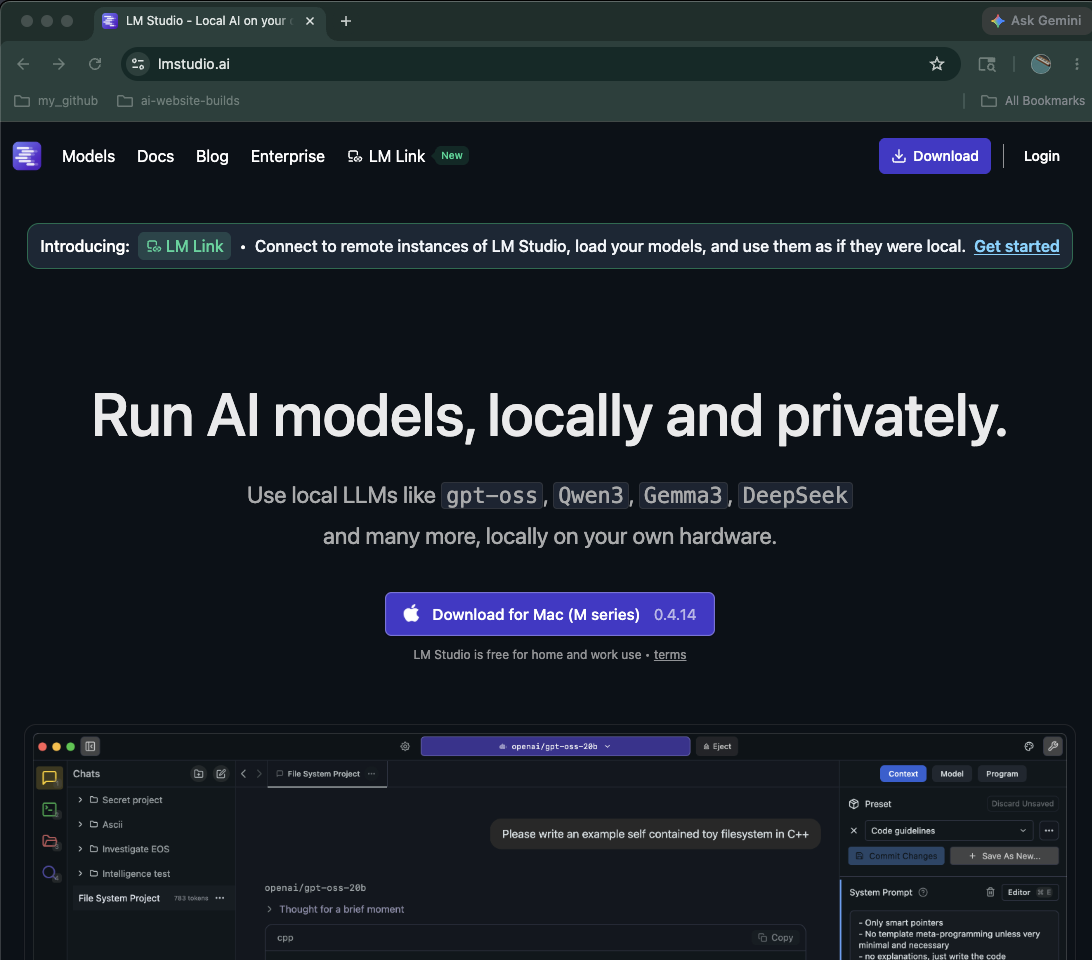
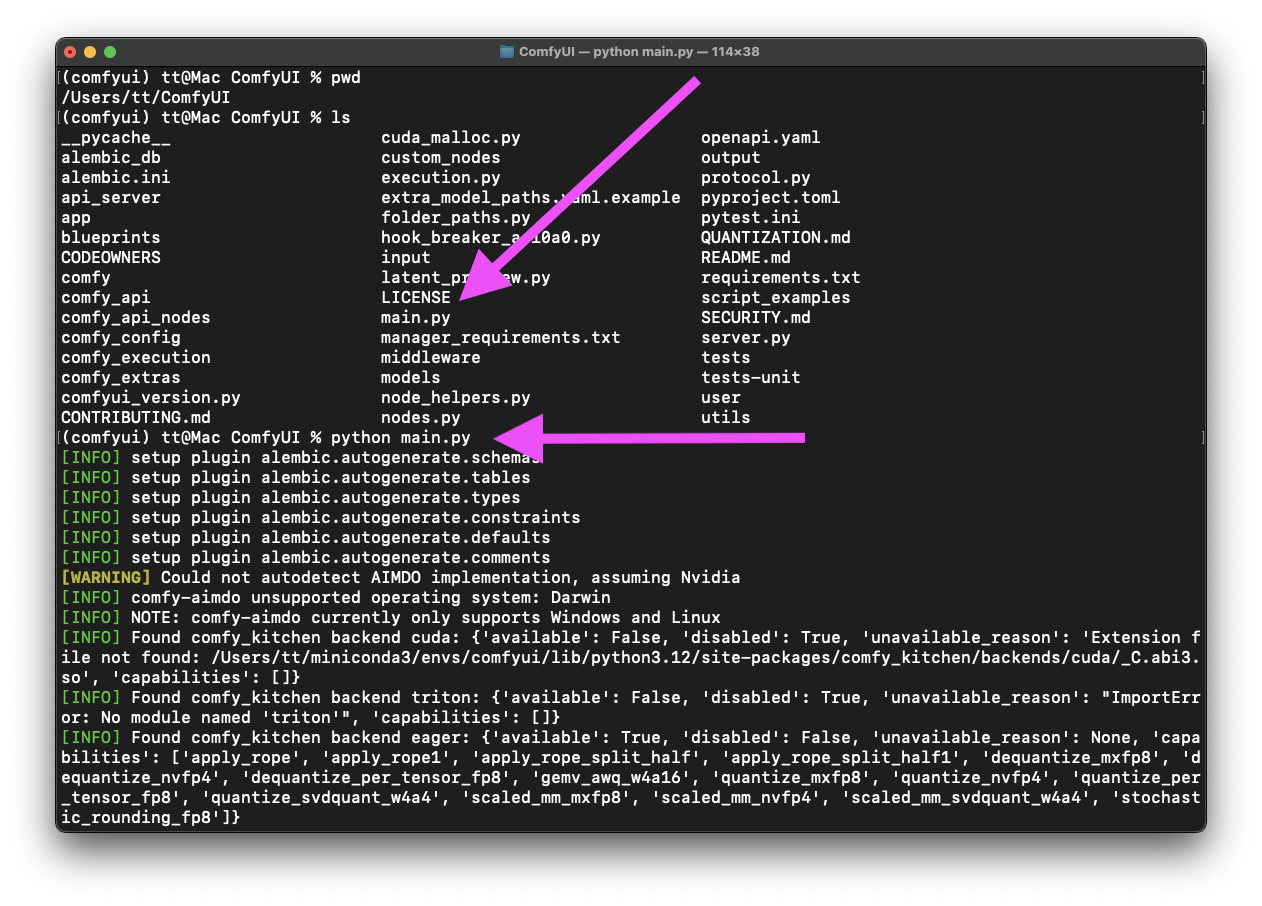
main

diff --git a/resources/mango-borgo/install-comfyUI-mac/side-bar-links-pages/02/02-01/02-01.html b/resources/mango-borgo/install-comfyUI-mac/side-bar-links-pages/02/02-01/02-01.html
@@ -1,0 +1,78 @@
+<!-- 02-01.html -->
+<div id="targetDiv">
+    <header>
+        <h3 id="targetHeaderh3">02-01 Run Manager - custom node</h3>
+    </header>
+    <div class="steps-container">
+        <!-- 1. -->
+        <div data-auto-focus tabindex="0" class="step-float" data-video="https://www.youtube.com/watch?app=desktop&v=pTiRfPuTuvU&ra=m"
+            data-timestamp="720">
+            <div class="step-txt ">
+                <h4>1</h4>
+                <p>
+                    To Download models to use, you need to run a manager, 
+                    To use old manager, close server and use -h flag to see options,
+                </p>
+                <div class="code-container">
+                    <code tabindex="0" class="copy-code">
+python main.py -h</code>
+                </div>
+                <p>
+                    Use the --enable-manager on python main.py command and (with mac) use the --force-fp32
+                </p>
+                
+                <div class="code-container">
+                    <code tabindex="0" class="copy-code">
+                    python main.py --enable-manager --force-fp32
+                    </code>
+                </div>
+                <p class="m">
+                    The --listner flag can be added to connect other devices on network to server
+                    (do this later)
+                </p>
+            </div>
+            <div class="imgs-container">
+                <div class="step-img">
+                    <img loading="lazy" src="side-bar-links-pages/02/02-01/images/01.png" alt="">
+                </div>
+                <div class="step-img">
+                    <img loading="lazy" src="side-bar-links-pages/02/02-01/images/01-b.png" alt="">
+                </div>
+                <div class="step-img">
+                    <img loading="lazy" src="side-bar-links-pages/02/02-01/images/01-c.png" alt="">
+                </div>
+            </div>
+        </div>
+        <!-- 2. -->
+        <div tabindex="0" class="step-float" data-video="https://www.youtube.com/watch?app=desktop&v=pTiRfPuTuvU&ra=m"
+            data-timgestamp="700">
+            <h3>2- Warning</h3>
+            <div class="step-txt ">
+                <h4>2.</h4>
+                <p class="r">
+                    After  runing the above options i got this pop up to upgrade, i ran this, restarted
+                </p>
+                <div class="code-container">
+                    <code tabindex="0" class="copy-code">
+pip install -U comfyui-manager</code>
+                </div>
+                <div class="code-container">
+                    <code tabindex="0" class="copy-code">
+                        http://127.0.0.1:8188</code>
+                </div>
+                
+            </div>
+            <div class="imgs-container">
+                <div class="step-img">
+                    <img loading="lazy" src="side-bar-links-pages/02/02-01/images/02.png" alt="">
+                </div>
+                <div class="step-img">
+                    <img loading="lazy" src="side-bar-links-pages/02/02-01/images/02-b.png" alt="">
+                </div>
+            </div>
+            
+        </div>
+        
+
+    </div>
+</div>

diff --git a/resources/mango-borgo/install-comfyUI-mac/side-bar-links-pages/01/01.html b/resources/mango-borgo/install-comfyUI-mac/side-bar-links-pages/01/01.html
@@ -11,12 +11,35 @@
             <div class="step-txt ">
                 <h4>1</h4>
                 <p>
-                    Go to 
-                     <a rel="noopener noreferrer" target="_blank" href="https://github.com/Comfy-Org/ComfyUI">
-                        https://github.com/Comfy-Org/ComfyUI
-                     </a>
-                    
+                    After Installing correctly, Go to ComfyUI dir 
                 </p>            
+                <div class="code-container">
+                    <code tabindex="0" class="copy-code">
+cd ComfyUi</code>
+                </div>
+                <p>
+                    Run
+                </p>
+                <div class="code-container">
+                    <code tabindex="0" class="copy-code">
+python main.py</code>
+                </div>
+                <p>
+                    Server will probably be at
+                </p>  
+                <div class="code-container">
+                    <code tabindex="0" class="copy-code">
+http://127.0.0.1:8188</code>
+                </div>
+            </div>
+            <div class="imgs-container">
+                <div class="step-img">
+                    <img loading="lazy" src="side-bar-links-pages/01/images/01.png" alt="">
+                </div>
+                <div class="step-img">
+                    <img loading="lazy" src="side-bar-links-pages/01/images/01-b.png" alt="">
+                </div>
+                
             </div>
         </div>
         

diff --git a/resources/mango-borgo/install-comfyUI-mac/install-comfyUI-mac.html b/resources/mango-borgo/install-comfyUI-mac/install-comfyUI-mac.html
@@ -65,23 +65,35 @@
                                 data-timestamp="30" 
                                 href="side-bar-links-pages/01/01.html">Download / Install 
                             </a>
-                            <ul class="drop-snips show">
+                            <ul class="drop-snips ">
                                 <li><a   href="side-bar-links-pages/01/01-01/01-01.html" data-video="https://www.youtube.com/watch?app=desktop&v=pTiRfPuTuvU&ra=m"
                                      data-timestamp="30" 
                                     >Miniconda - python env manager</a>
                                 </li>  
-                                <li><a autofocus    href="side-bar-links-pages/01/01-02/01-02.html" data-video="https://www.youtube.com/watch?app=desktop&v=pTiRfPuTuvU&ra=m"
+                                <li><a href="side-bar-links-pages/01/01-02/01-02.html" data-video="https://www.youtube.com/watch?app=desktop&v=pTiRfPuTuvU&ra=m"
                                      data-timestamp="280" 
                                     >github comfyui / run server</a>
                                 </li>  
                                 
                             </ul>
                         </li>
-                        
-                        
-
-
-                        
+                        <li>
+                            <a tabindex="0" class="drop-down" data-video="https://www.youtube.com/watch?app=desktop&v=pTiRfPuTuvU&ra=m"
+                                data-timestamp="676" href="side-bar-links-pages/02/02.html">TBD
+                            </a>
+                            <ul class="drop-snips show">
+                                <li><a autofocus  href="side-bar-links-pages/02/02-01/02-01.html"
+                                        data-video="https://www.youtube.com/watch?app=desktop&v=pTiRfPuTuvU&ra=m" 
+                                        data-timestamp="684">
+                                        Run Manager - custom node
+                                    </a>
+                                </li>
+                                <li><a href="side-bar-links-pages/01/01-02/01-02.html"
+                                        data-video="https://www.youtube.com/watch?app=desktop&v=pTiRfPuTuvU&ra=m" data-timestamp="280">github
+                                        comfyui / run server</a>
+                                </li>
+                            </ul>
+                        </li>
                     </ul>
                 </div>
             </aside>

diff --git a/resources/mango-borgo/install-comfyUI-mac/side-bar-links-pages/01/01-02/01-02.html b/resources/mango-borgo/install-comfyUI-mac/side-bar-links-pages/01/01-02/01-02.html
@@ -7,7 +7,6 @@
         <!-- 1. -->
         <div tabindex="0" class="step-float" data-video="https://www.youtube.com/watch?app=desktop&v=pTiRfPuTuvU&ra=m"
             data-timestamp="304">
-            
             <div class="step-txt ">
                 <h4>1</h4>
                 <p>
@@ -17,14 +16,13 @@
                     </a>
                 </p>
                 <p>
-                    folow step 1 , use <code>pip3</code> to install pytorch
+                    follow step 1 , use <code>pip3</code> to install pytorch
                 </p>
                 <div class="code-container">
                     <code tabindex="0" class="copy-code">
                         pip3 install --pre torch torchvision torchaudio --extra-index-url https://download.pytorch.org/whl/nightly/cpu
 </code>
                 </div>
-                
             </div>
             <div class="imgs-container">
                 <div class="step-vid ">
@@ -161,11 +159,7 @@ cd ComfyUI</code>
                     <code tabindex="0" class="copy-code">
 python main.py</code>
                 </div>
-                
-                
             </div>
-            
         </div>
-
     </div>
 </div>

diff --git a/resources/mango-borgo/install-comfyUI-mac/js/nav/step-nav.js b/resources/mango-borgo/install-comfyUI-mac/js/nav/step-nav.js
@@ -179,7 +179,10 @@ document.addEventListener('keydown', (e) => {
 
         const currentCodeIndex =
             copyCodes.indexOf(activeCopyCode);
-
+        if(!isNaN(key)){
+            const intKey = parseInt(key)    
+            copyCodes[intKey - 1].focus()
+        }
         if (key === 'f') {
             e.preventDefault();
 